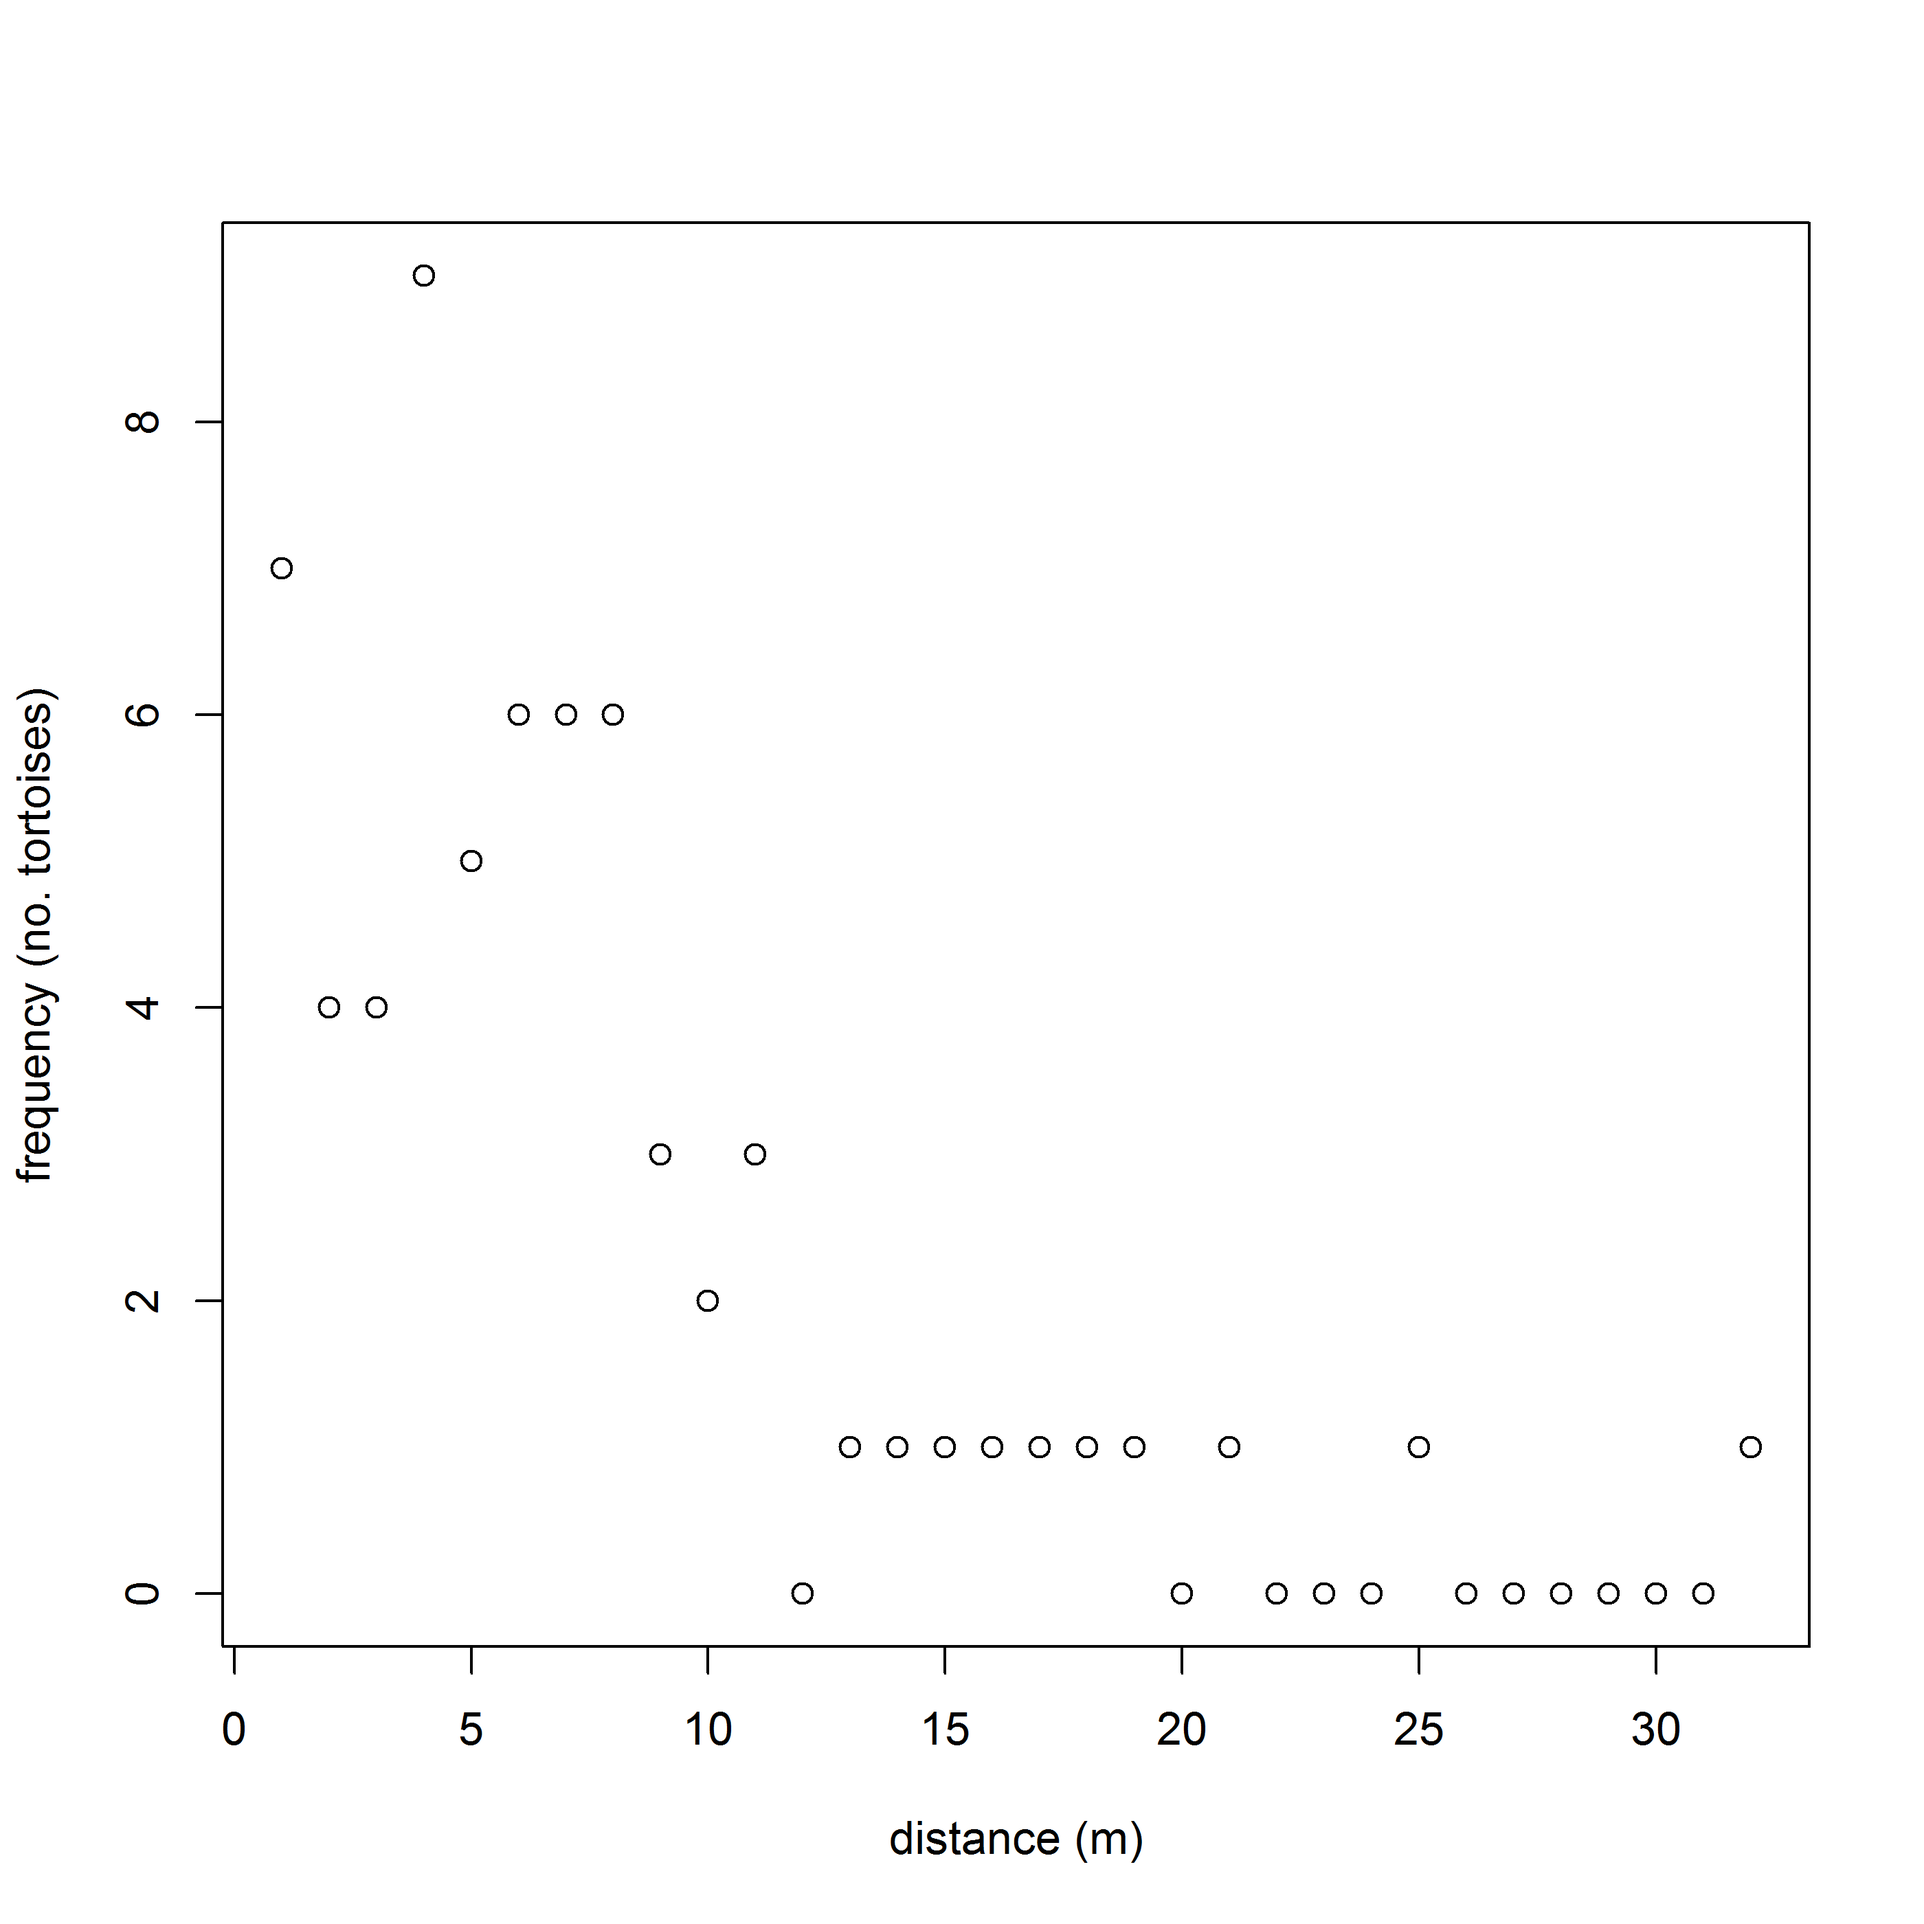
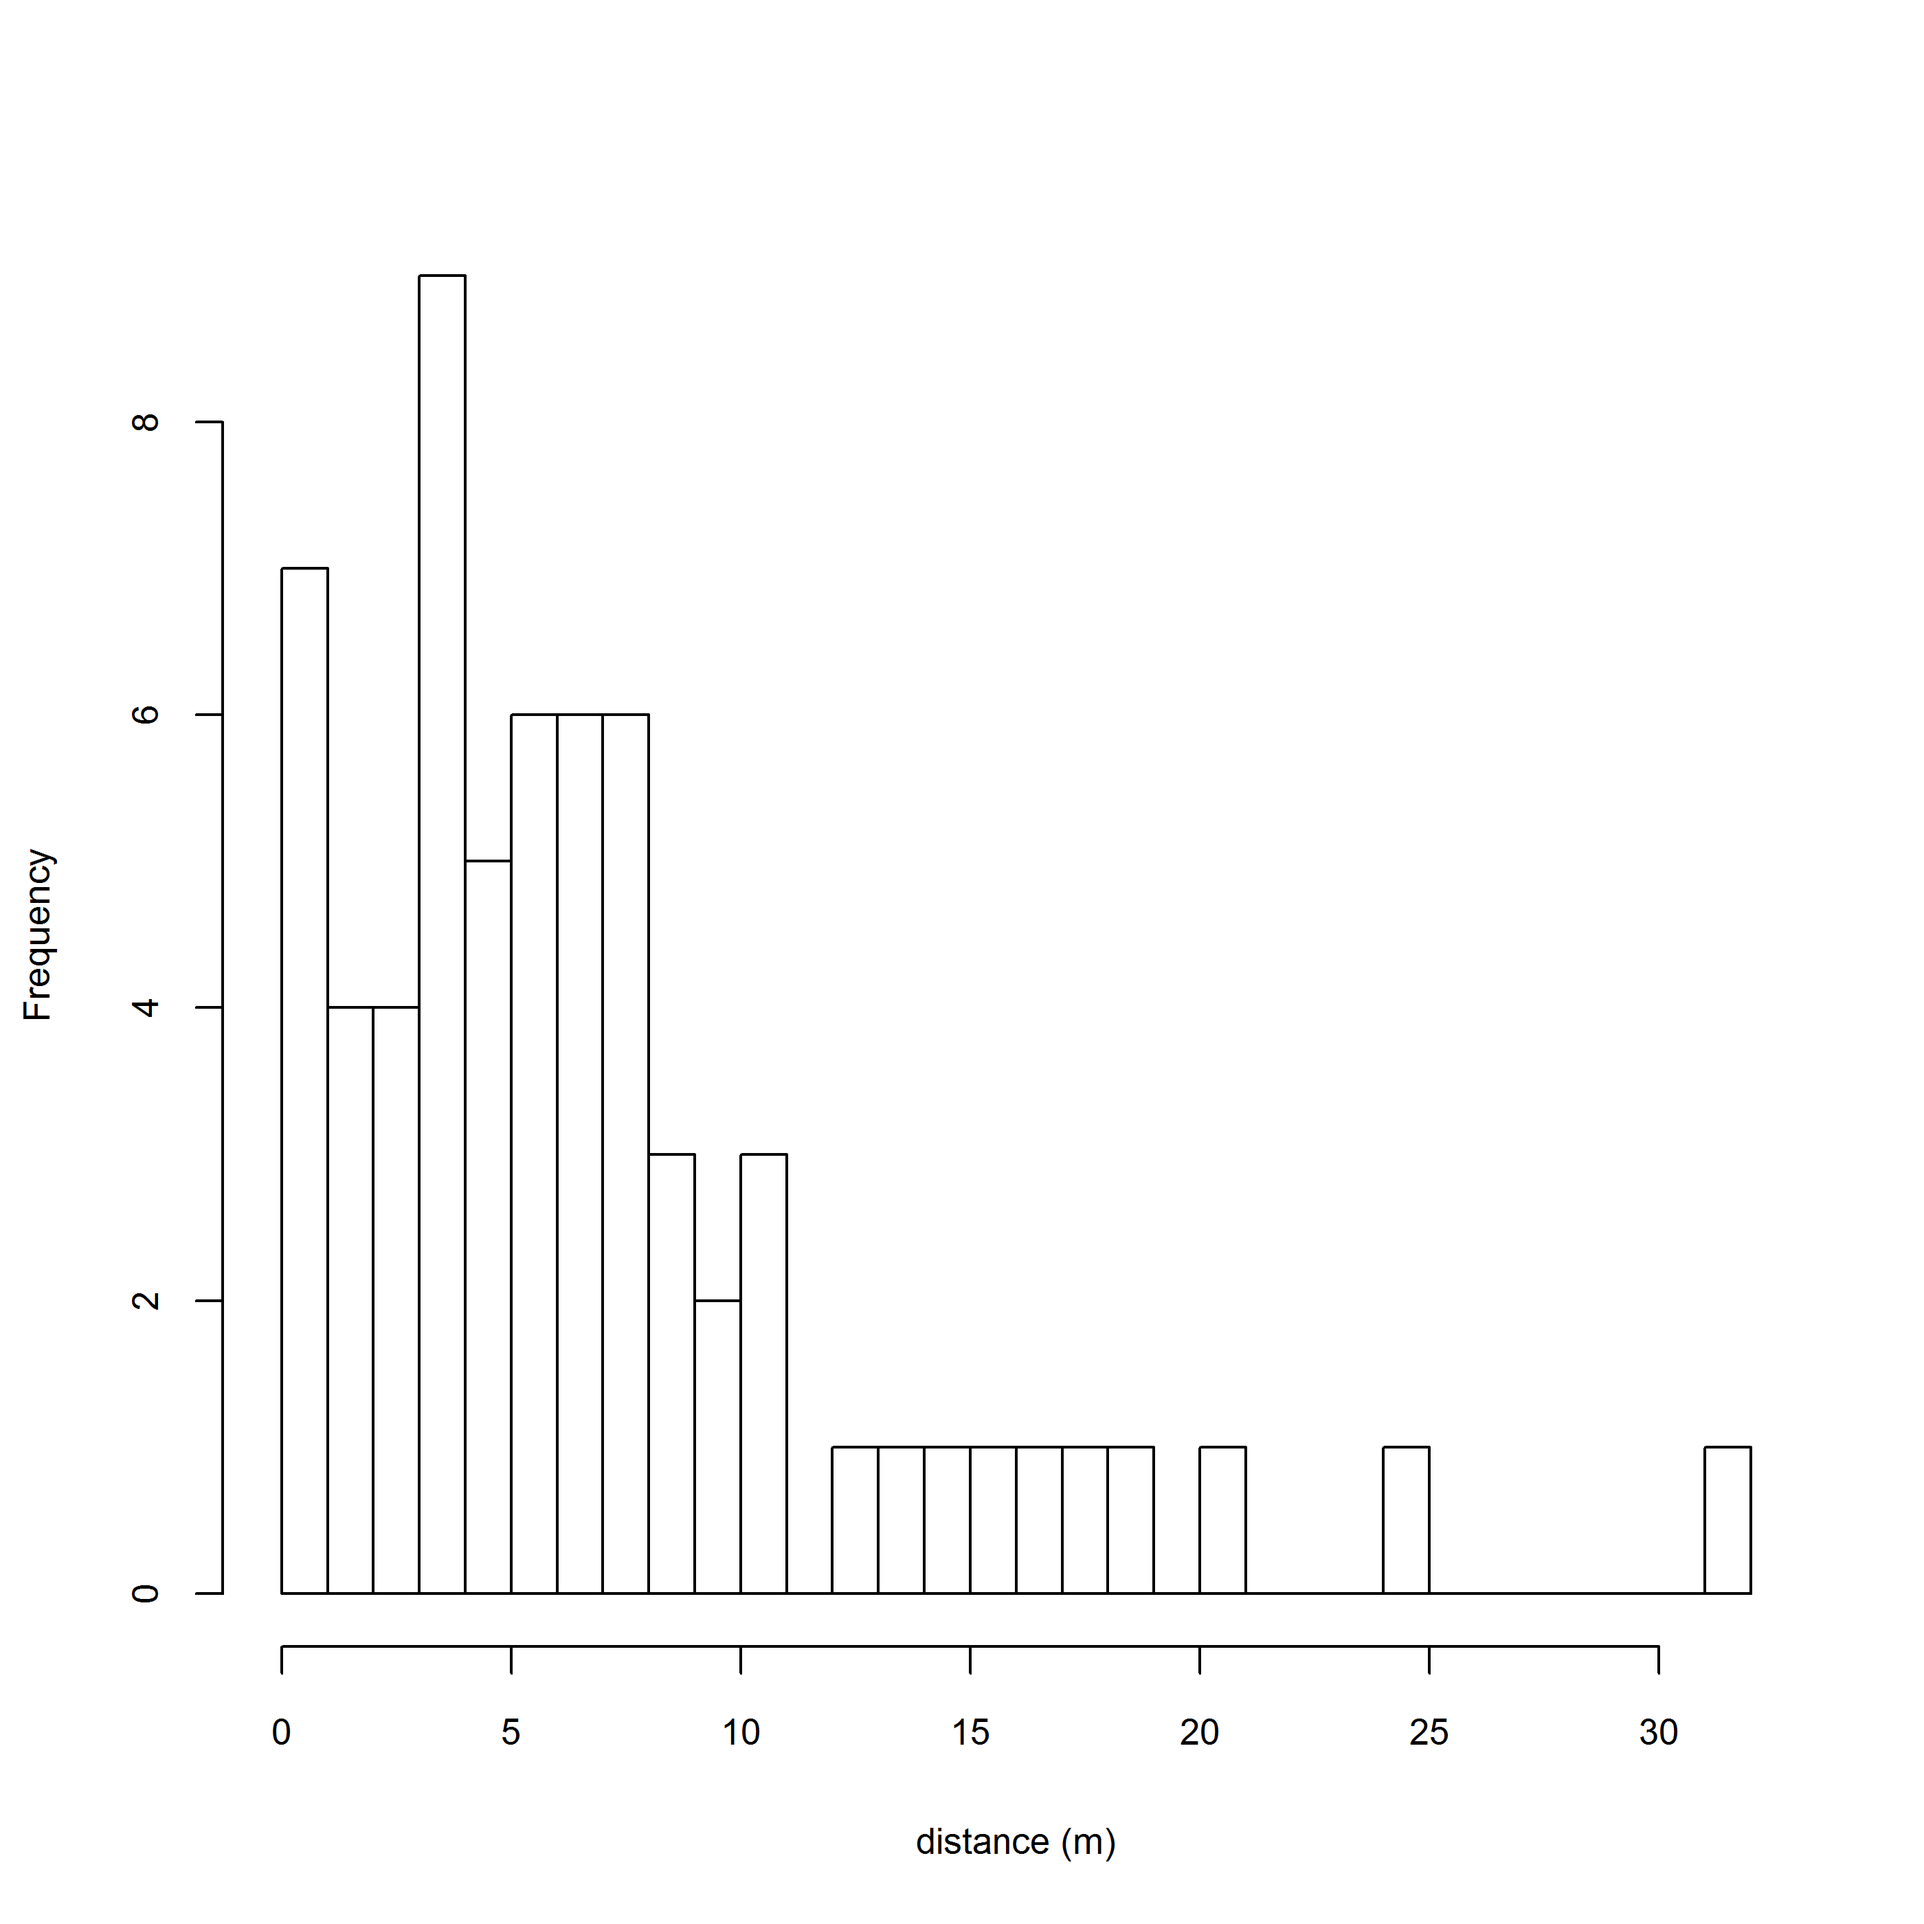
few minor edits added stuff to package

diff --git a/Ch3/Ch3.tex b/Ch3/Ch3.tex
@@ -2047,12 +2047,12 @@ detection probability, normally imposed as the assumption that
 detection probability is $1.0$ when distance equals 0.  A standard
 model is the ``half-normal'' model:
 \[
-\log(p_{i}) = \beta x_{i}^{2}
+\log(p_{i}) = \alpha_{1} x_{i}^{2}
 \]
-for $\beta < 0$, where $x_i$ denotes the distance at which the $i$th
+for $\alpha_{1} < 0$, where $x_i$ denotes the distance at which the $i$th
 individual is detected relative to some reference location where
 perfect detectability ($p=1$) is assumed. This function corresponds to
-the ``half-normal'' detection function (i.e., with $\beta =
+the ``half-normal'' detection function (i.e., with $\alpha_{1} =
 1/\sigma^{2}$).  If $K>1$ then an intercept in this model is
 identifiable and such models are usually called ``capture-recapture
 distance sampling''\citep{alpizar_pollock:1996,borchers_etal:1998}.
@@ -2075,14 +2075,14 @@ shown in Panel \ref{closed.panel.distance} from \citet{royle_dorazio:2008}.
 \rule[0.15in]{\textwidth}{.03in}
 \begin{minipage}{5in}
 \begin{verbatim}
-beta~dunif(0,10)
+alpha1~dunif(0,10)
 psi~dunif(0,1)
 
 for(i in 1:(nind+nz)){
    z[i]~dbern(psi)    # DA Variables
    x[i]~dunif(0,B)    # B=strip width
    p[i]<-exp(logp[i])   # DETECTION MODEL
-   logp[i]<-   - beta*(x[i]*x[i])
+   logp[i]<-   - alpha1*(x[i]*x[i])
    mu[i]<-z[i]*p[i]
    y[i]~dbern(mu[i])  # OBSERVATION MODEL
  }
@@ -2103,7 +2103,7 @@ prior distribution on individual {\it location} instead of distance
 between individual and observation point (or transect).  Thus we can
 write the general distance sampling model as
 \[
-p_{i} = f(\beta,||{\bf u}_{i} - {\bf x}_0||)
+p_{i} = f(\alpha_{1},||{\bf u}_{i} - {\bf x}_0||)
 \]
 along with
 \[
@@ -2178,8 +2178,7 @@ Could use a picture of the beast to put side-by-side?
 \begin{figure}
 \centering
 \includegraphics[height=3.35in,width=3.35in]{Ch3/figs/tortoise.png}
-\caption{Tortoise detection data.........
-}
+\caption{Histogram of desert tortoise detections.}
 \label{closed.fig.tortoise}
 \end{figure}
 
@@ -2189,34 +2188,39 @@ for reading in and organizing the data for analysis by {\bf WinBUGS}, followed b
 writing the model to a text file, are given below. Note that the total sampled area of
 the transects is fed in as ``striparea'' which is $120$ (transects)
 multiplied by the strip length ($1000$ m) and width ($B=50$ m)
-multiplied by 2 and then divided by 10000 to make everything in units
-of individuals per ha.
+multiplied by 2 and then divided by $10000$ to make everything in units
+of individuals {\it per} ha. The full script, provided with the
+\mbox{\tt scrbook} {\bf R} package, we also give some commands for
+analyzing the data using \mbox{\tt unmarked}
+\citep{fiske_chandler:2012} using hierarchical distance sampling
+models \citep{royle_etal:2004}. 
 {\small 
 \begin{verbatim}
-library("R2WinBUGS")
-data<- read.csv("Muntjac.csv")
-hist(data[,3],30)
-nind<-nrow(data)
+data(toroise)
+
+x<-data[,"Dist"]
+nind<-sum(!is.na(x))
 y<-rep(1,nind)
-nz<-400
+nz<-700
 y<-c(y,rep(0,nz))
-x<-data[,3]
 x<-c(x,rep(NA,nz))
 z<-y
 
 cat("
 model{
-beta~dunif(0,10)
+alpha1~dunif(0,10)
+sigma<- sqrt(1/(2*alpha1))
 psi~dunif(0,1)
 
 for(i in 1:(nind+nz)){
    z[i]~dbern(psi)    # DA Variables
    x[i]~dunif(0,B)    # B=strip width
    p[i]<-exp(logp[i])   # DETECTION MODEL
-   logp[i]<-   -beta*(x[i]*x[i])
+   logp[i]<-   -alpha1*(x[i]*x[i])
    mu[i]<-z[i]*p[i]
    y[i]~dbern(mu[i])  # OBSERVATION MODEL
  }
+
 N<-sum(z[1:(nind+nz)])
 D<- N/striparea  # area of transects
 }
@@ -2227,39 +2231,41 @@ Next, we provide inits, indicate which parameters to monitor, and then
 pass those things to {\bf WinBUGS}:
 {\small
 \begin{verbatim}
-data<-list(y=y,x=x,nz=nz,nind=nind,B=120,striparea=(708*2*.120))
-params<-list('beta','N','D','psi')
-inits =  function() {list(z=z, psi=runif(1), beta=runif(1,0,.02) )}
+library("R2WinBUGS")
+
+# density to be reported in units of ind/ha
+data<-list(y=y,x=x,nz=nz,nind=nind,B=40,striparea=(120*1000*40*2/10000))
+params<-list('alpha1','sigma','N','D','psi')
+inits =  function() {list(z=z, psi=runif(1), alpha1=runif(1,0,.02) )}
 fit = bugs(data, inits, params, model.file="dsamp.txt",working.directory=getwd(),    
-       debug=T, n.chains=3, n.iter=11000, n.burnin=1000, n.thin=2)
+       debug=T, n.chains=3, n.iter=3000, n.burnin=1000, n.thin=2)
 \end{verbatim}
 }
-Posterior summaries are provided in the following table. Estimated
-density is pretty low, 1.1 individuals per sq. km.\footnote{ This is much
-  lower than Samba's estimate produced from WinBUGS accounting for group
-  size. Reason unknown. }
+Posterior summaries are provided in the following summary table. Estimated
+density (posterior mean) is $0.54$ individuals {\it per} ha and the estimated scale
+parameter of the distance function (posterior mean) is $\sigma=9.12$
+meters.
+The Rhat statistics of around $1.02$ suggest that slightly longer MCMC
+simulations might be useful. The posterior mass of the data
+augmentation parameter $\psi$ is located away from the upper-bound
+$\psi=1$ and so the degree of data augmentation appears sufficient. 
 {\small
 \begin{verbatim}
+> print(fit,digits=2)
 Inference for Bugs model at "dsamp.txt", fit using WinBUGS,
- 3 chains, each with 11000 iterations (first 1000 discarded), n.thin = 2
- n.sims = 15000 iterations saved
+ 3 chains, each with 3000 iterations (first 1000 discarded), n.thin = 2
+ n.sims = 3000 iterations saved
            mean    sd   2.5%    25%    50%    75%  97.5% Rhat n.eff
-beta       0.00  0.00   0.00   0.00   0.00   0.00   0.00    1  1100
-N        185.73 26.53 138.00 167.00 184.00 203.00 242.00    1   570
-D          1.09  0.16   0.81   0.98   1.08   1.20   1.42    1   570
-psi        0.41  0.06   0.30   0.36   0.40   0.45   0.54    1   670
-deviance 655.74 16.26 626.00 644.50 655.10 666.40 689.80    1  1300
-
-xxxxxxx$Is the first line (beta) reasonable?$xxxxxxxxxx
+alpha1     0.01  0.00   0.00   0.01   0.01   0.01   0.01 1.02   130
+sigma      9.12  0.77   7.77   8.57   9.07   9.62  10.77 1.02   130
+N        516.67 54.71 415.00 478.00 516.00 552.00 632.00 1.02   100
+D          0.54  0.06   0.43   0.50   0.54   0.57   0.66 1.02   100
+psi        0.61  0.07   0.49   0.56   0.61   0.66   0.75 1.02    96
 
 [.... some output deleted .... ]
+
 \end{verbatim}
 }
-
-
-
-
-
 
 
 
@@ -2377,7 +2383,7 @@ parameter $N$ (corresponding also to the size of a hypothetical
 consideration in the analysis of capture-recapture models. The
 classical approach to inference recognizes that the observations don't
 have a standard binomial distribution but, rather, a truncated
-binomial (from which which the so-called ``conditional likelihood''
+binomial (from which which the so-called {\it conditional likelihood}
 derives) since we only have encounter frequency data on observed
 individuals. If instead we analyze the models using data augmentation,
 the observations can be modeled using a zero-inflated binomial
@@ -2394,7 +2400,7 @@ models arise by defining individual covariates based on observed
 locations of individuals -- we can think of using some function of
 mean encounter location as an individual covariate. We did this in a
 novel way, by using distance to the centroid of the trapping array as
-a covariate. We analyzed the ``full likelihood'' using data
+a covariate. We analyzed the {\it full likelihood} using data
 augmentation, and placed a prior distribution on the individual
 covariate which was derived from an assumption that individual
 locations are, a priori, uniformly distributed in space. This
@@ -2409,7 +2415,7 @@ still not completely general because it does not make use of
 the fully spatial encounter histories, which provide direct
 information about the locations and density of individuals.  A
 specific individual covariate model that is in widespread use is
-classical ``distance sampling.'' The model underlying distance
+classical distance sampling. The model underlying distance
 sampling is precisely a special kind of SCR model - but one without
 replicate samples. Understanding distance sampling and individual
 covariate models more broadly provides a solid basis for understanding

diff --git a/Ch10b/Ch10b.tex b/Ch10b/Ch10b.tex
@@ -515,13 +515,40 @@ data?
 telemetry data?
 
 
-
+%% Should also simulate fitting the wrong model with symmetric
+%% encounter model and see what happens
+%% also run N=200 with 500 iterations
 \begin{verbatim}
+300 iters each 
+
 n=2           Nhat RMSE  ahat   RMSE    sighat     RMSE
 SCR only:   99.73   9.97  0.99  0.14   2.00  0.124
 SCR/RSF:    99.94   9.54  0.99  0.12   2.00  0.097
 sbar        98.89   9.50  0.93  0.14   1.97  0.100
 RSF only     --     --    1.03  0.325  2.00  0.160
+
+n=4
+SCR only    99.10 9.83  0.99  0.13  2.00  0.127
+SCR/RSF     99.17 9.47  0.99  0.11  2.00  0.086
+sbar        97.43 9.68  0.89  0.16  1.97  0.090
+RSF only       NA  NA   0.98  0.22  2.00  0.119
+
+n=8
+SCR only    99.59 10.00  1.00  0.13  1.9984966  0.1297490
+SCR/RSF     98.90 10.02  0.99  0.10  2.00479788  0.07139757
+sbar        96.07 10.37  0.84  0.19  1.96465528  0.07817228
+RSF only      NA   NA    0.98  0.16  2.00691784 0.08412492
+
+
+n=12
+SCR only   99.4351762 10.7260324  0.9805477  0.1347151  2.0174210  0.1280524
+SCR/RSF    99.96190532 10.26005960  0.99633319  0.09099438  2.00127720  0.05941305
+sbar       96.30144300 10.48929740  0.81531453  0.20374311  1.95817025  0.07059047
+RSF only    NA              NA 1.00887053 0.12384945 1.99575138 0.06890596
+
+
+
+
 \end{verbatim}
 
 I think the bias when estimating "s" seems reasonable: The average
